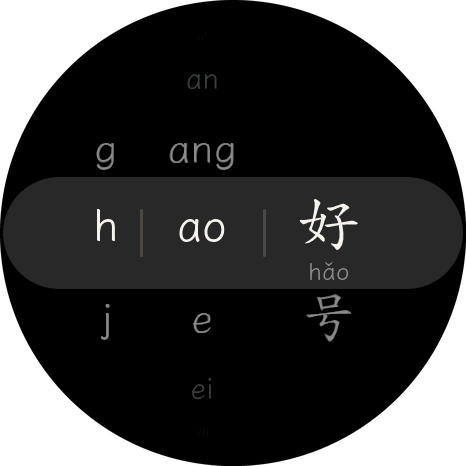
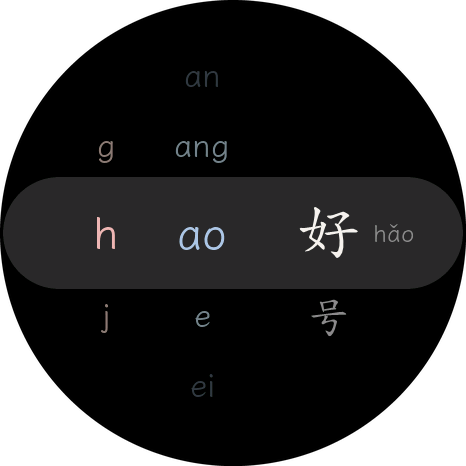
Show all three input modes in the README gallery
Claude-Session: https://claude.ai/code/session_01QE5DzApuQoFzigKaJhC1D5

diff --git a/tools/make_readme_shots.py b/tools/make_readme_shots.py
@@ -33,6 +33,8 @@ SS = 8  # supersampling for the alpha edge; the panel is round, the pixels are n
 # working directory; the other two take --out.
 SHOTS = [
     ("hanzi", "picker_default", "hanzi-search.png"),
+    ("hanzi", "mode_dial_xiang", "hanzi-dial.png"),
+    ("hanzi", "mode_t9_xiang", "hanzi-t9.png"),
     ("hanzi", "browse", "hanzi-browse.png"),
     ("hanzi", "learn_06", "hanzi-learn.png"),
     ("math", "map_fresh", "math-map.png"),
